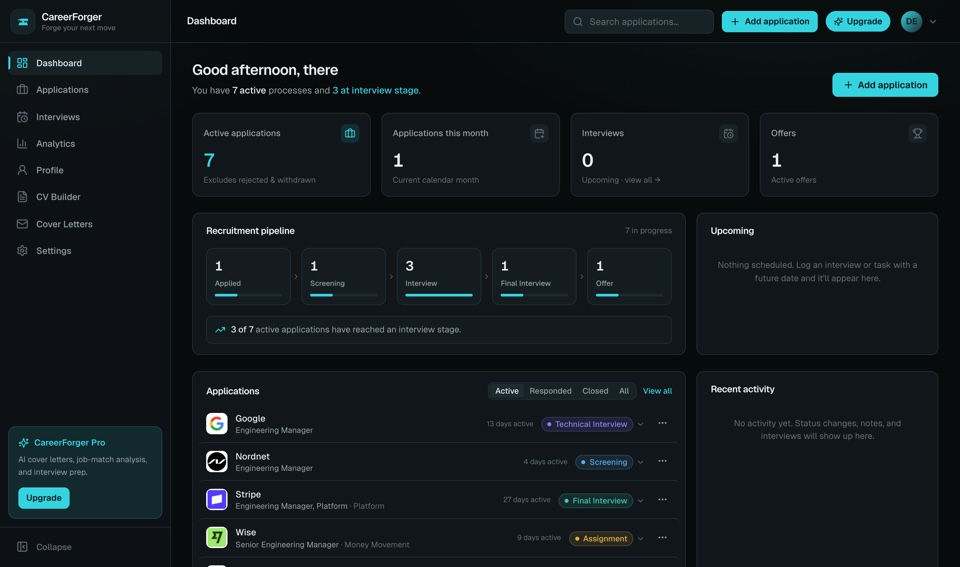
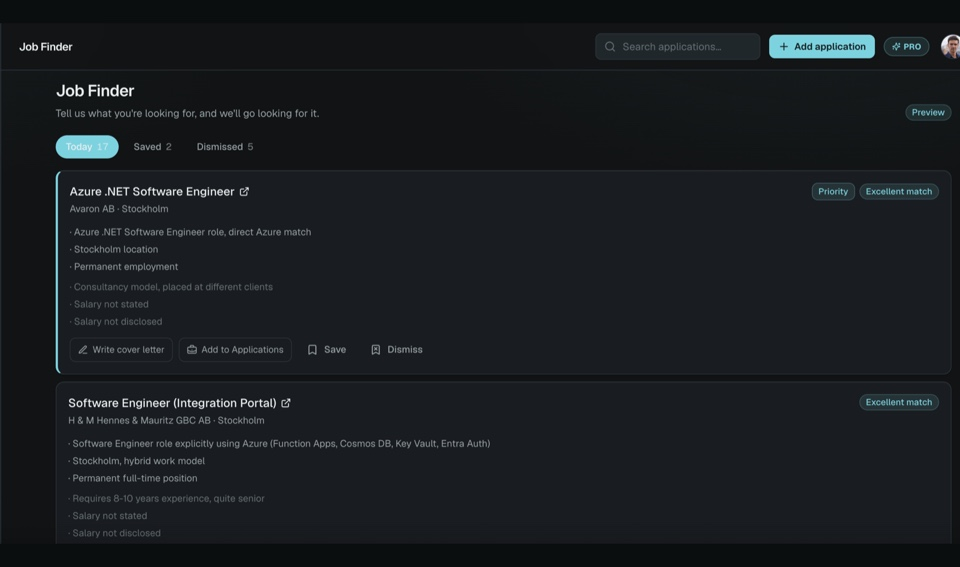
Projects: current CareerForger screenshot, and copy that says what it does
The thumbnail was the old dashboard, from before Job Finder existed — so
the lead portfolio entry was illustrated by a screen that no longer looks
like that, showing a feature set the copy then failed to mention.

Now the Job Finder results view: match bands, the reasons behind each one,
and the actions on a card. It is the screenshot that shows the thing the
product is actually for.

Framed rather than cropped blind. The source is 1600x786 and the card wants
960x567, so something had to give: cropping to the card's ratio at full
height leaves 1331px, and the content spans 1412 — the header breadcrumb
and the match badges cannot both survive it. Cutting at the content column
left "der" hanging in the corner, which reads as a broken render. Cropping
the collapsed icon rail instead costs nothing, makes the content bigger in
frame, and halves the padding needed to reach the exact ratio.

Copy rewritten. It led with "a job-search platform & CV builder with
AI-assisted workflows" — a category and a buzzword — and closed on "Live,
with a free tier and Pro subscriptions", which is a release note rather
than a description. Neither mentioned the one thing that makes it
different: it goes looking for the jobs and explains why each one fits.
Highlights updated to match, with the matching that the new screenshot
shows replacing the vaguer "Search analytics".

diff --git a/src/data.ts b/src/data.ts
@@ -337,8 +337,8 @@ export const projects: Project[] = [
     image: '/projects/careerforger.jpg',
     featured: true,
     description:
-      'A job-search platform & CV builder with AI-assisted workflows. Track every application through its pipeline, keep one reusable career profile, and turn it into tailored CVs and cover letters. Live, with a free tier and Pro subscriptions.',
-    highlights: ['Pipeline & interview tracking', 'AI cover letters', 'CV builder', 'Search analytics'],
+      'A career platform that goes looking for the work, not just the paperwork. It scores live job openings against criteria you set and says why each one fits, then turns a single career profile into tailored CVs and cover letters — with every application tracked from applied to offer.',
+    highlights: ['Job matching, with reasons', 'AI cover letters', 'CV builder', 'Pipeline & interview tracking'],
   },
   {
     name: 'StoryMaker',
